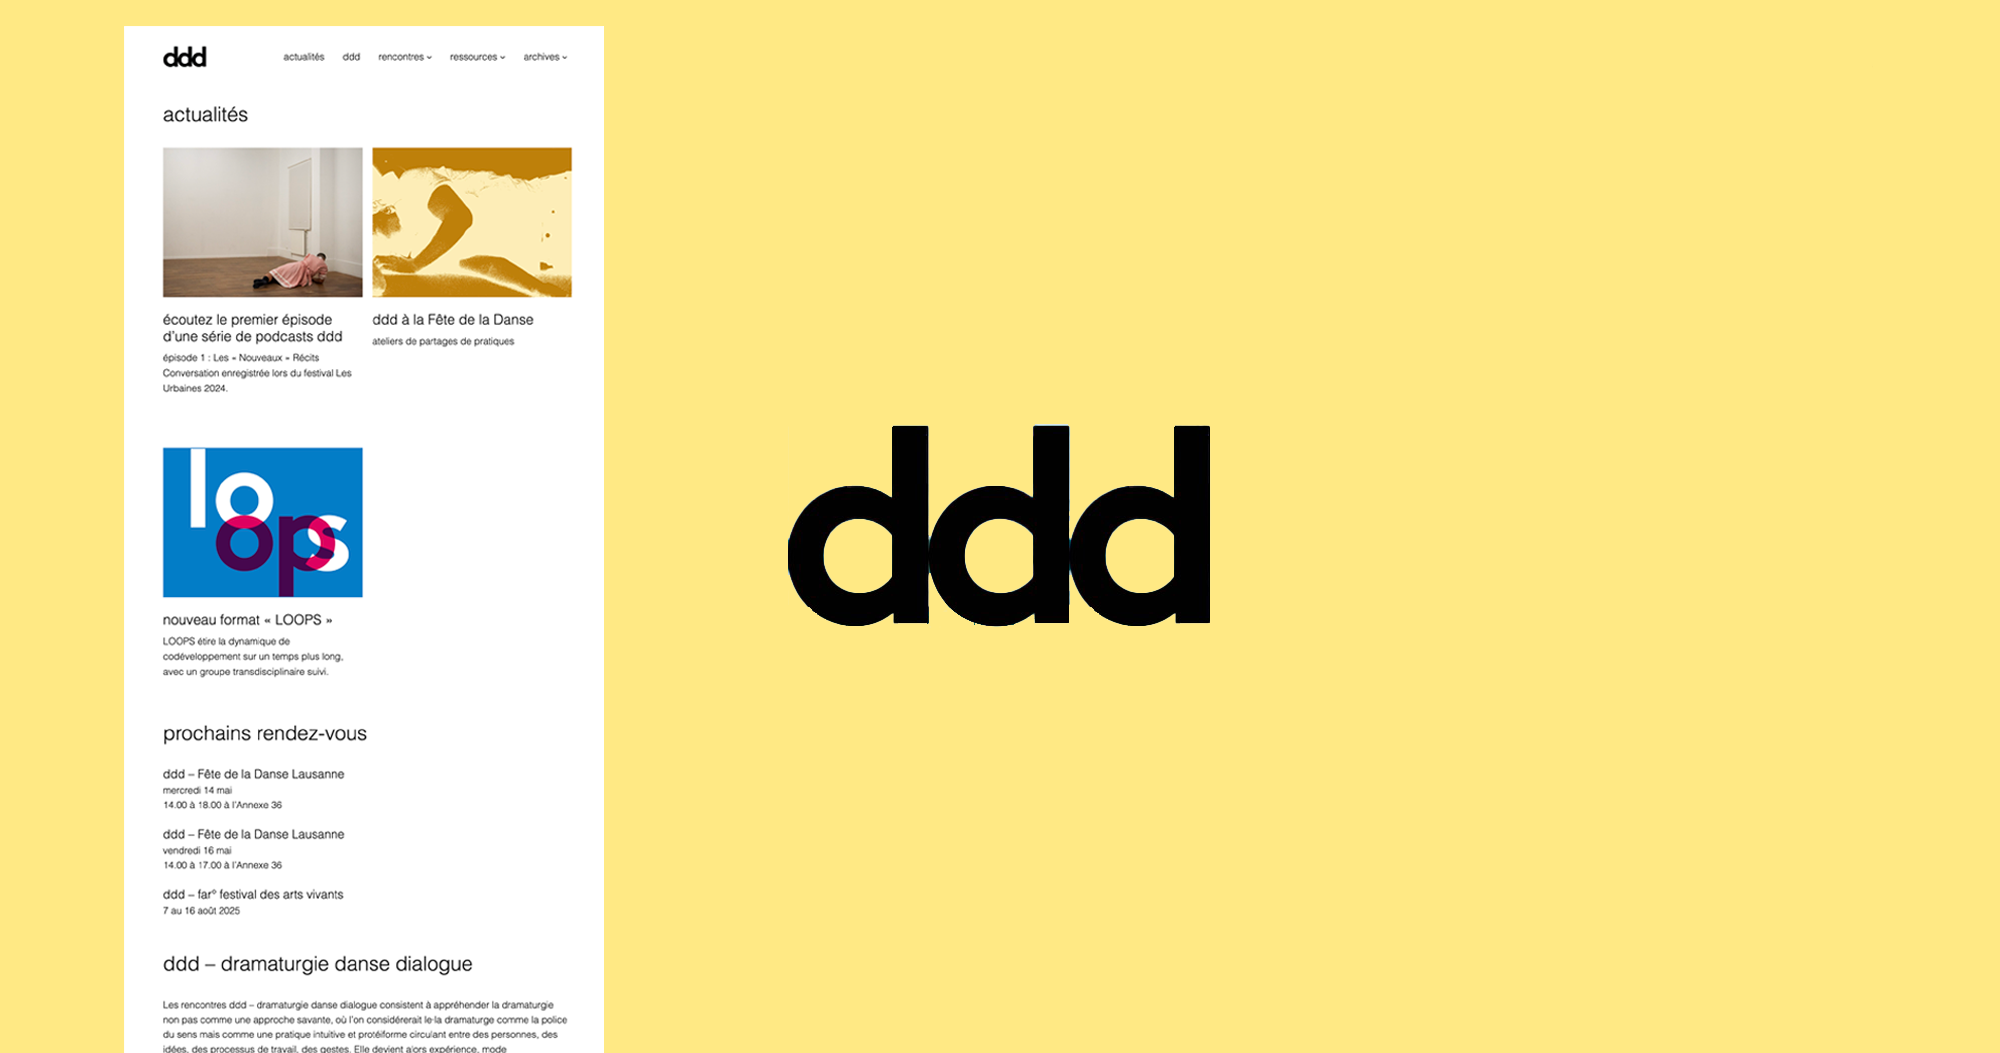
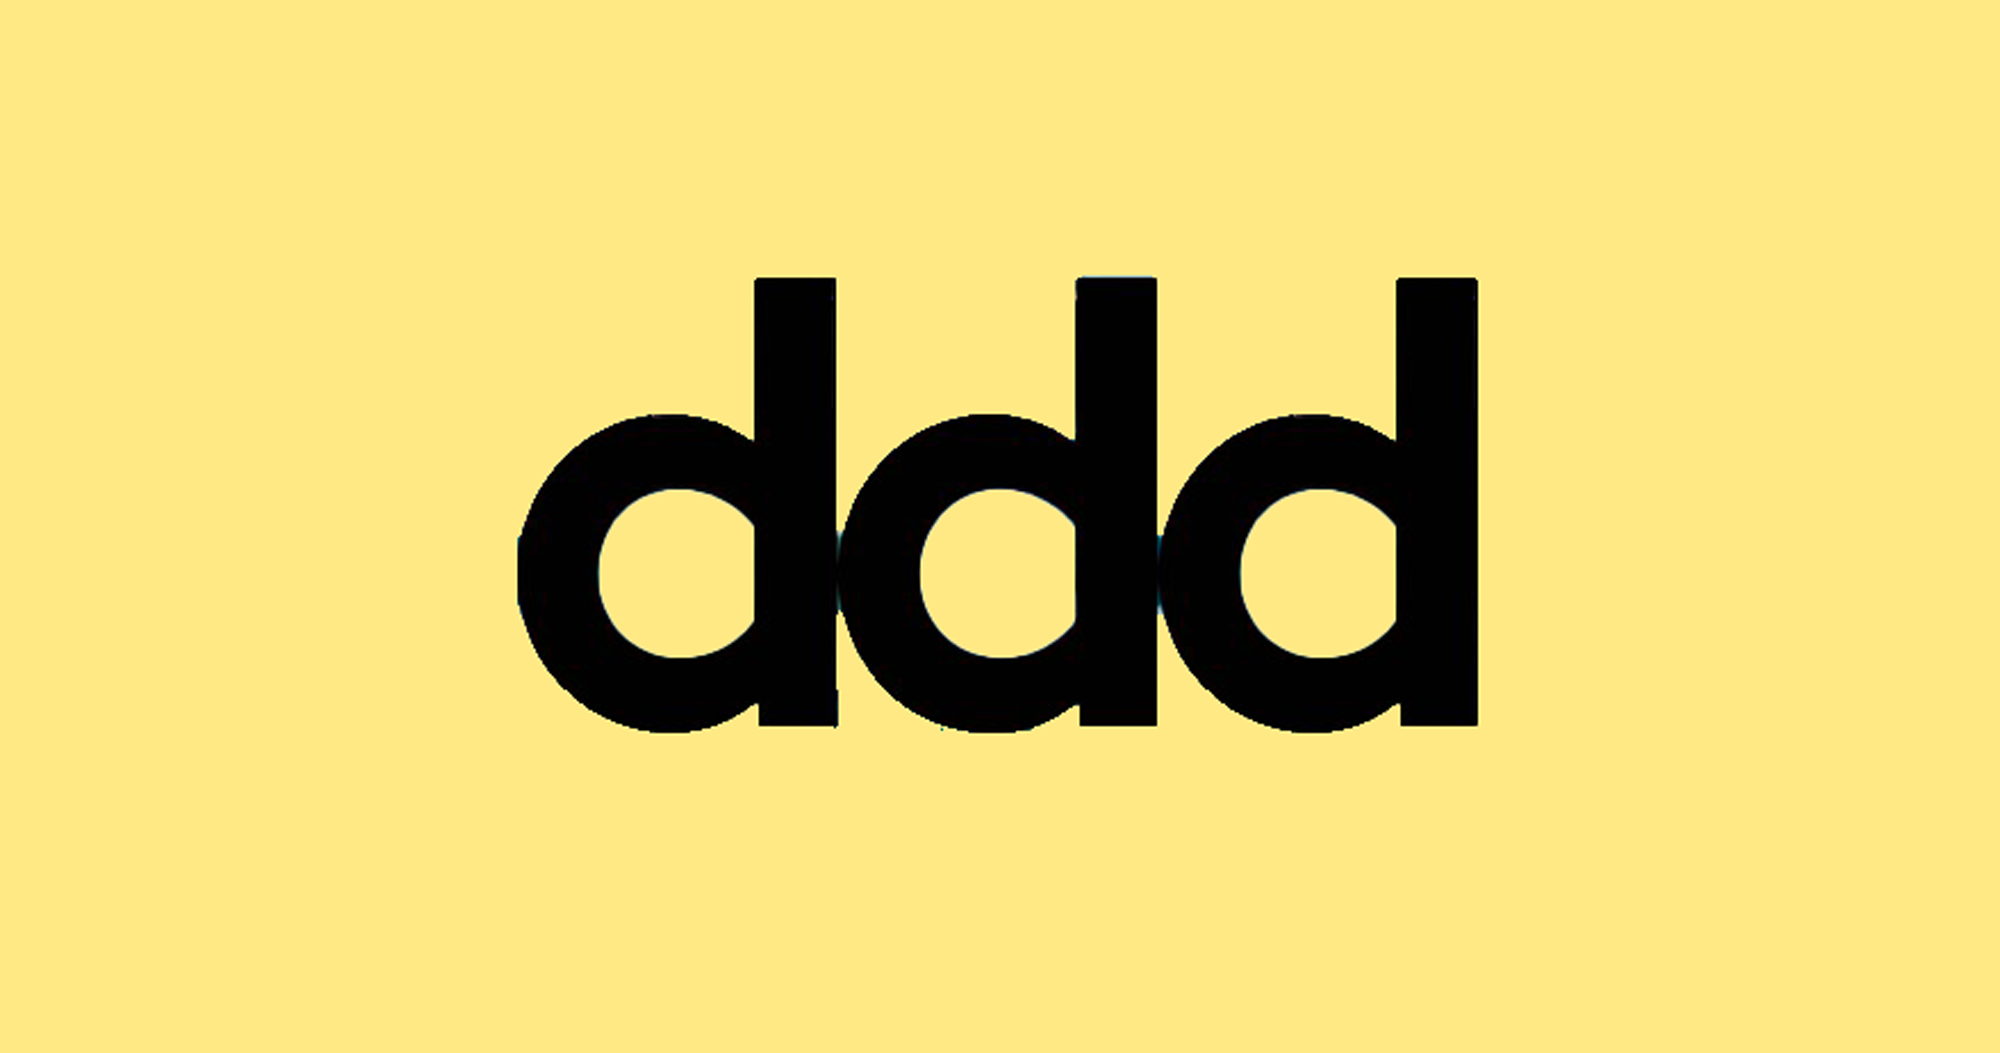
added image grid

diff --git a/src/styles/global.css b/src/styles/global.css
@@ -29,11 +29,12 @@ body {
 }
 
 main,
-header {
-  width: 770px;
-  max-width: calc(100% - 2em);
-  margin: auto;
-  padding: 0 1em 3em;
+header,
+nav {
+  /* max-width: calc(100% - 2em); */
+  max-width: 1100px;
+  /* margin: auto; */
+  padding: 0 var(--space-m);
 }
 
 strong {
@@ -109,12 +110,6 @@ img {
   /* font-size: var(--step-1); */
   font-variation-settings: "wght" 650; /*"CRSV" 3, "MONO" 0;
   --mono: "MONO" 0; */
-}
-
-.subtitle {
-  /* font-size: var(--step-1); */
-  margin-bottom: var(--space-2xl);
-  margin-top: var(--space-xl);
 }
 
 @media (hover: hover) {

diff --git a/src/styles/theme.css b/src/styles/theme.css
@@ -73,12 +73,12 @@
   --sand-bg: rgb(230, 212, 175);
   --sand-text: rgb(58, 80, 101);
   --saffron-bg: rgb(252, 226, 103);
-  --saffron-text: rgb(227, 59, 84);
+  --saffron-text: #e33b54;
   --basil-bg: rgb(153, 187, 66);
   --basil-text: rgb(40, 64, 64);
   --satin-bg: rgb(245, 184, 190);
   --satin-text: rgb(177, 55, 69);
-  --orchid-bg: rgb(240, 106, 165);
+  --orchid-bg: #f06aa5;
   --orchid-text: rgb(117, 1, 14);
   --pumpkin-bg: rgb(206, 86, 18);
   --pumpkin-text: rgb(247, 170, 41);

diff --git a/src/content/blog/202403 math-game.md b/src/content/blog/202403 math-game.md
@@ -1,0 +1,10 @@
+---
+title_english: "Math Game"
+description_english: Math Game
+titre_francais: Math Game
+description_francais: Math Game
+pubDate: "Mars 01 2024"
+link: https://lnsjhnssn.github.io/mathgame/
+cover: "math-game.png"
+coverAlt: Screenshot show an input field, a green rectangle that says Start and a red rectangle that says 10. To the right in the photo it says High Score and to the left the player can use between addition, subtraction, multiplication, division.
+---

diff --git a/src/content/blog/202405 Des Amours.md b/src/content/blog/202405 Des Amours.md
@@ -1,8 +1,10 @@
 ---
-title_english: "Des Amours"
-description_english: Sound mix and additional sound design for the documentary "Des Amours" by Caroline Bernhard. Premiered at the festival and conference Agora 2024.
+title_english: "Les Amours"
+description_english: Sound mix and additional sound design for the documentary "Les Amours" by Caroline Bernhard. Premiered at the festival and conference Agora 2024.
 titre_francais: Des Amours
 description_francais: Mixage et design sonore pour le documentaire Des Amours de Caroline Bernhard. Première au festival et conférence Agora 2024.
 pubDate: "Mars 19 2024"
 link: https://2023.amstramgram.ch/fr/programme/les-amours
+cover: les-amours.png
+coverAlt: Text saying "## Les Amours"
 ---

diff --git a/src/content/blog/2020 norrlandsoperan.md b/src/content/blog/2020 norrlandsoperan.md
@@ -5,4 +5,6 @@ description_english: Made sound and led technical production and coordination fo
 description_francais: Made sound and led technical production and coordination for touring theatre productions, contemporary dance and music performances 2016 - 2020.
 pubDate: "Mars 19 2020"
 link: https://norrlandsoperan.se/
+cover: NO_Fasad.png
+coverAlt: Photo of the building of Norrlandsoperan in Umeå.
 ---

diff --git a/src/content/blog/202101 under marken.md b/src/content/blog/202101 under marken.md
@@ -5,4 +5,6 @@ description_english: Sound art, music and installation. Exhibition together with
 description_francais: Sound art, music and installation. Exhibition together with the writer Andrea Lungren and the artist Helena Wikström. Premiered at Gallery Syster in Luleå 2021.
 pubDate: "Mars 19 2021"
 link: https://www.helenawikstrom.com/under-marken
+cover: undermarken_©helena_wikstrom.png
+coverAlt: Photo from the exhibition Under marken
 ---

diff --git a/src/content/blog/202104 je vous suis 1.md b/src/content/blog/202104 je vous suis 1.md
@@ -5,4 +5,6 @@ description_english: Sound recording, editing, mixing for the movie Je vous suis
 description_francais: Sound recording, editing, mixing for the movie Je vous suis by Orélie Fuchs Chen. The movie later won first pice at the 75th Biennale of contemporary art in La Chaux-de-Fonds 2024.
 pubDate: "April 30 2021"
 link: https://www.arcinfo.ch/neuchatel-canton/la-chaux-de-fonds-la-biennale-decerne-son-premier-prix-a-orelie-fuchs-chen-1358819
+cover: "je vous suis_le film.jpg"
+coverAlt: je vous suis — le film
 ---

diff --git a/src/content/blog/202108 je vous suis 2.md b/src/content/blog/202108 je vous suis 2.md
@@ -5,4 +5,6 @@ description_english: Sound design and engineering for the performance Je vous su
 description_francais: Sound design and engineering for the performance Je vous suis 2e by Orélie Fuchs Chen at the archeology museum Laténium.
 pubDate: "August 30 2021"
 link: https://www.oreliefuchs.ch/spectacle/je-vous-suis-2e-latenium-ne/
+cover: je_vous_suis_Laténium.jpg
+coverAlt: je vous suis au Laténium
 ---

diff --git a/src/content/blog/202109 Orphelins.md b/src/content/blog/202109 Orphelins.md
@@ -5,4 +5,6 @@ description_english: Sound and Stage manager for the theatre piece Orphelins by 
 description_francais: Sound and Stage manager for the theatre piece Orphelins by Philippe Saire.
 pubDate: "Sep 30 2021"
 link: https://www.philippesaire.ch/en/projets/orphelins
+cover: "orphelins.png"
+coverAlt: Image of two persons and the text Cie Philippe Saire, Orhelins de Dennis Kelly
 ---

diff --git a/src/content/blog/202206 irina.md b/src/content/blog/202206 irina.md
@@ -5,4 +5,6 @@ description_english: Touring sound engineer for the theatre piece Irina by Marik
 description_francais: Touring sound engineer for the theatre piece Irina by Marika Dreistadt. The sound design is made by Jérémy Conne and I started work on the show on the tour after the creation.
 pubDate: "July 30 2022"
 link: https://arsenic.ch/spectacle/irina/
+cover: irina_04.jpg
+altCover: A theatre stage. A performer is standing on the middle of the stage holding computer and pointing their finger to the head. Behind them is a bed and a screen showing the performers head, which is filmed by the camera they're holding.
 ---

diff --git a/src/content/blog/202307 dans la mesure.md b/src/content/blog/202307 dans la mesure.md
@@ -5,4 +5,6 @@ description_english: Sound manager for the theatre show Dans la mesure de l'impo
 description_francais: Sound manager for the theatre show Dans la mesure de l'impossible of Tiago Rodrigues. Contract with La Comédie de Genève during 2022 and 2023. Touring in Europe and Asia.
 pubDate: "July 30 2023"
 link: https://www.comedie.ch/fr/dans-la-mesure-de-limpossible-productions
+cover: "dmdli.jpeg"
+coverAlt: Photo of a sombre theatre stage. A drummer playing a drumset and a man holding a rope that is failing from the ceiling.
 ---

diff --git a/src/content/blog/202405 atelier-tentatif.md b/src/content/blog/202405 atelier-tentatif.md
@@ -5,4 +5,6 @@ description_english: Website for the theatre company and association Atelier Ten
 description_francais: Site web pour la compagnie de théâtre et association Atelier Tentatif basée à Genève et Lausanne. Réalisé avec Astro.
 pubDate: "May 28 2024"
 link: https://ateliertentatif.ch
+cover: "ateliertentatif.png"
+coverAlt: Screenshot of website for atelier tentatif
 ---